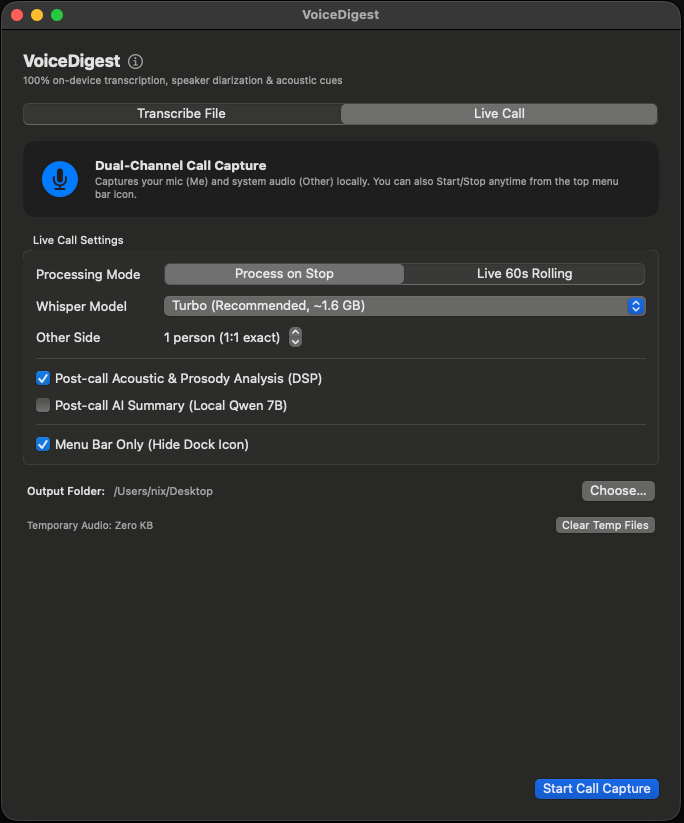
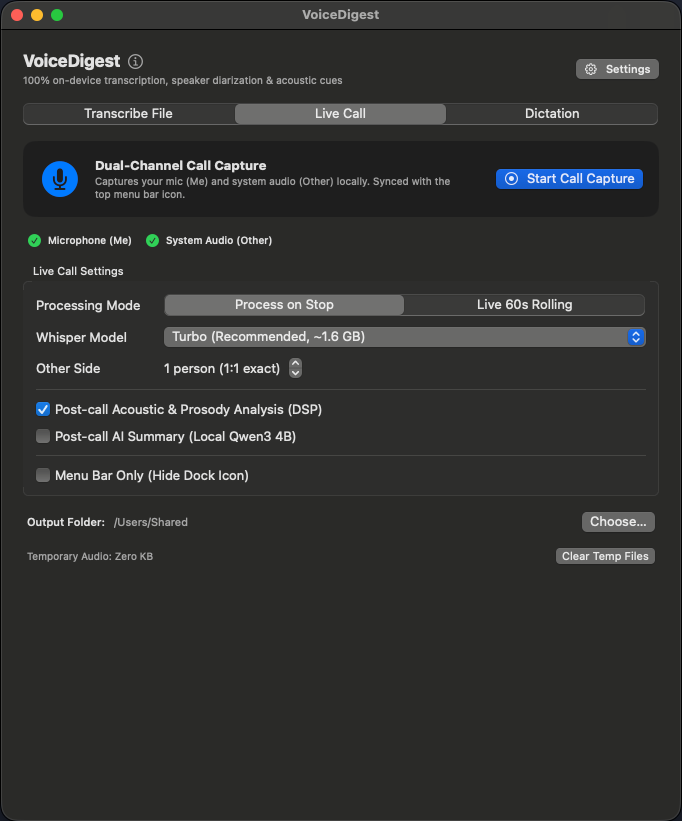
update screenshots and readme

diff --git a/README.md b/README.md
@@ -26,6 +26,11 @@
   &nbsp;
   <img src="docs/screenshots/live-call.png" alt="VoiceDigest — Live Call Capture" width="48%" />
 </p>
+<p align="center">
+  <img src="docs/screenshots/dictation.png" alt="VoiceDigest — System-Wide Dictation (<500 ms)" width="48%" />
+  &nbsp;
+  <img src="docs/screenshots/settings.png" alt="VoiceDigest — Offline Models & Settings" width="48%" />
+</p>
 
 ---
 
